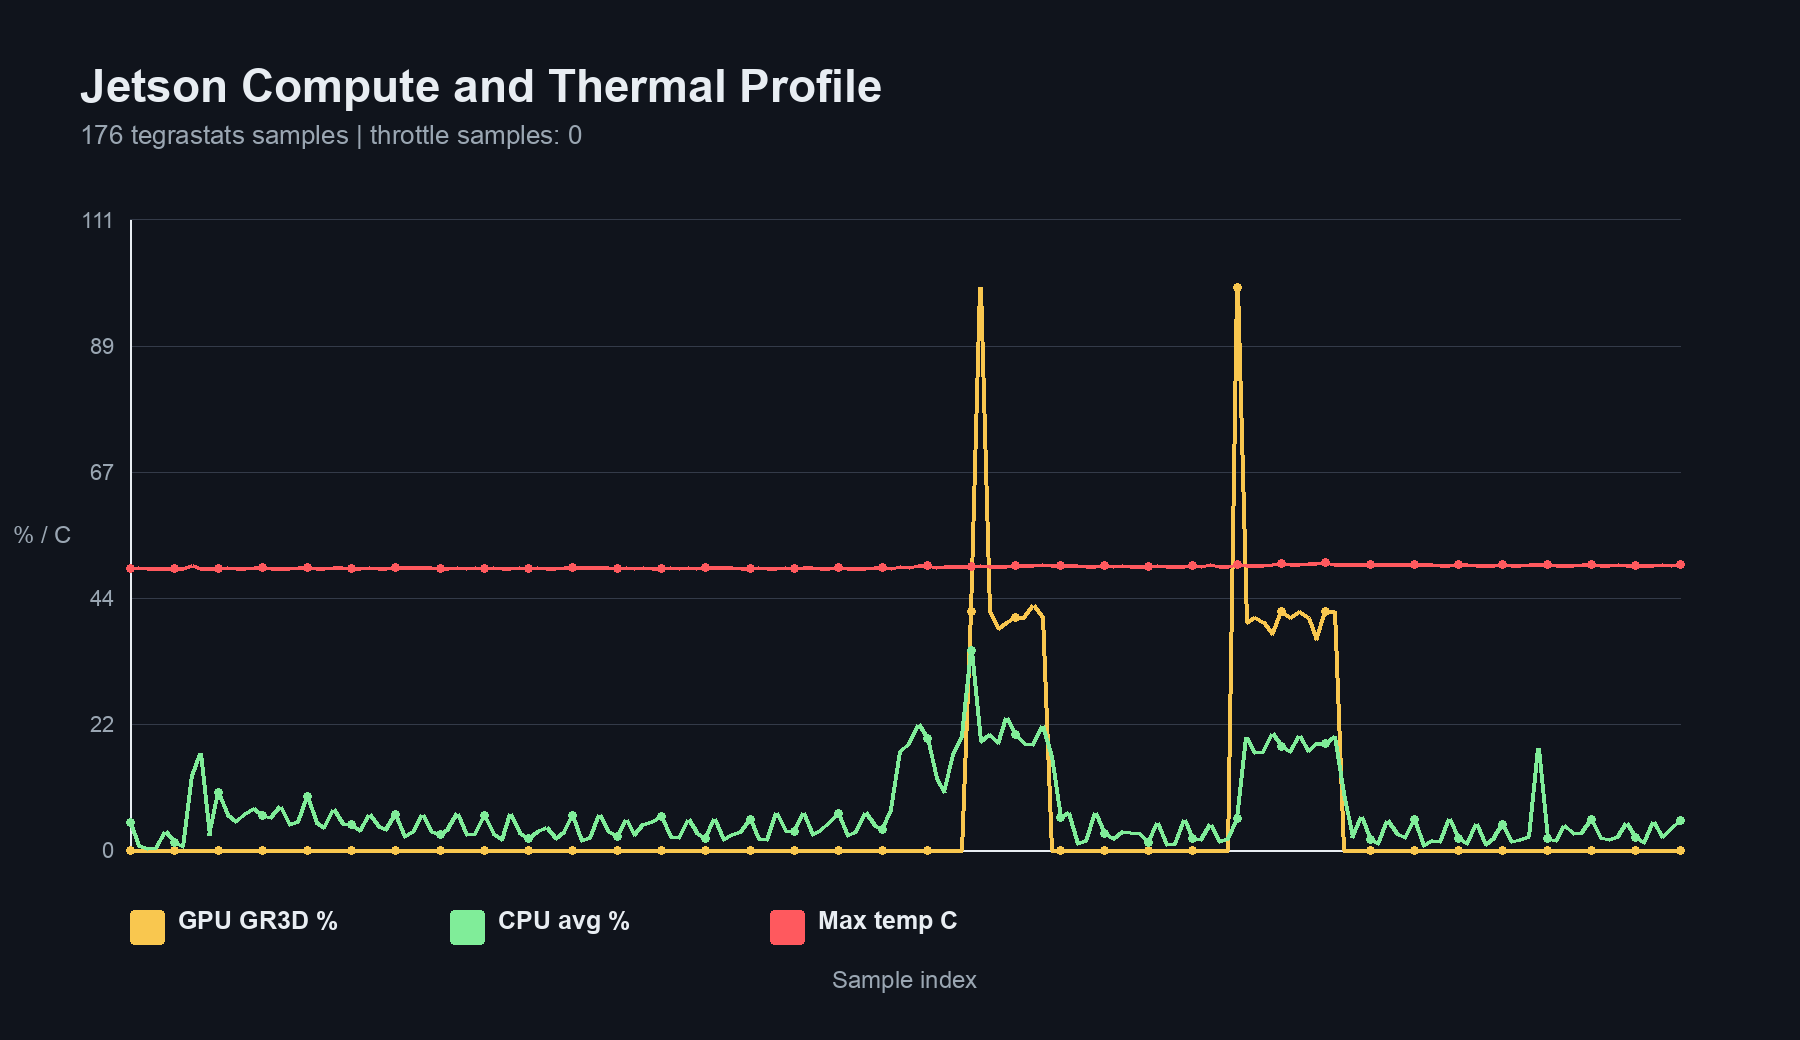
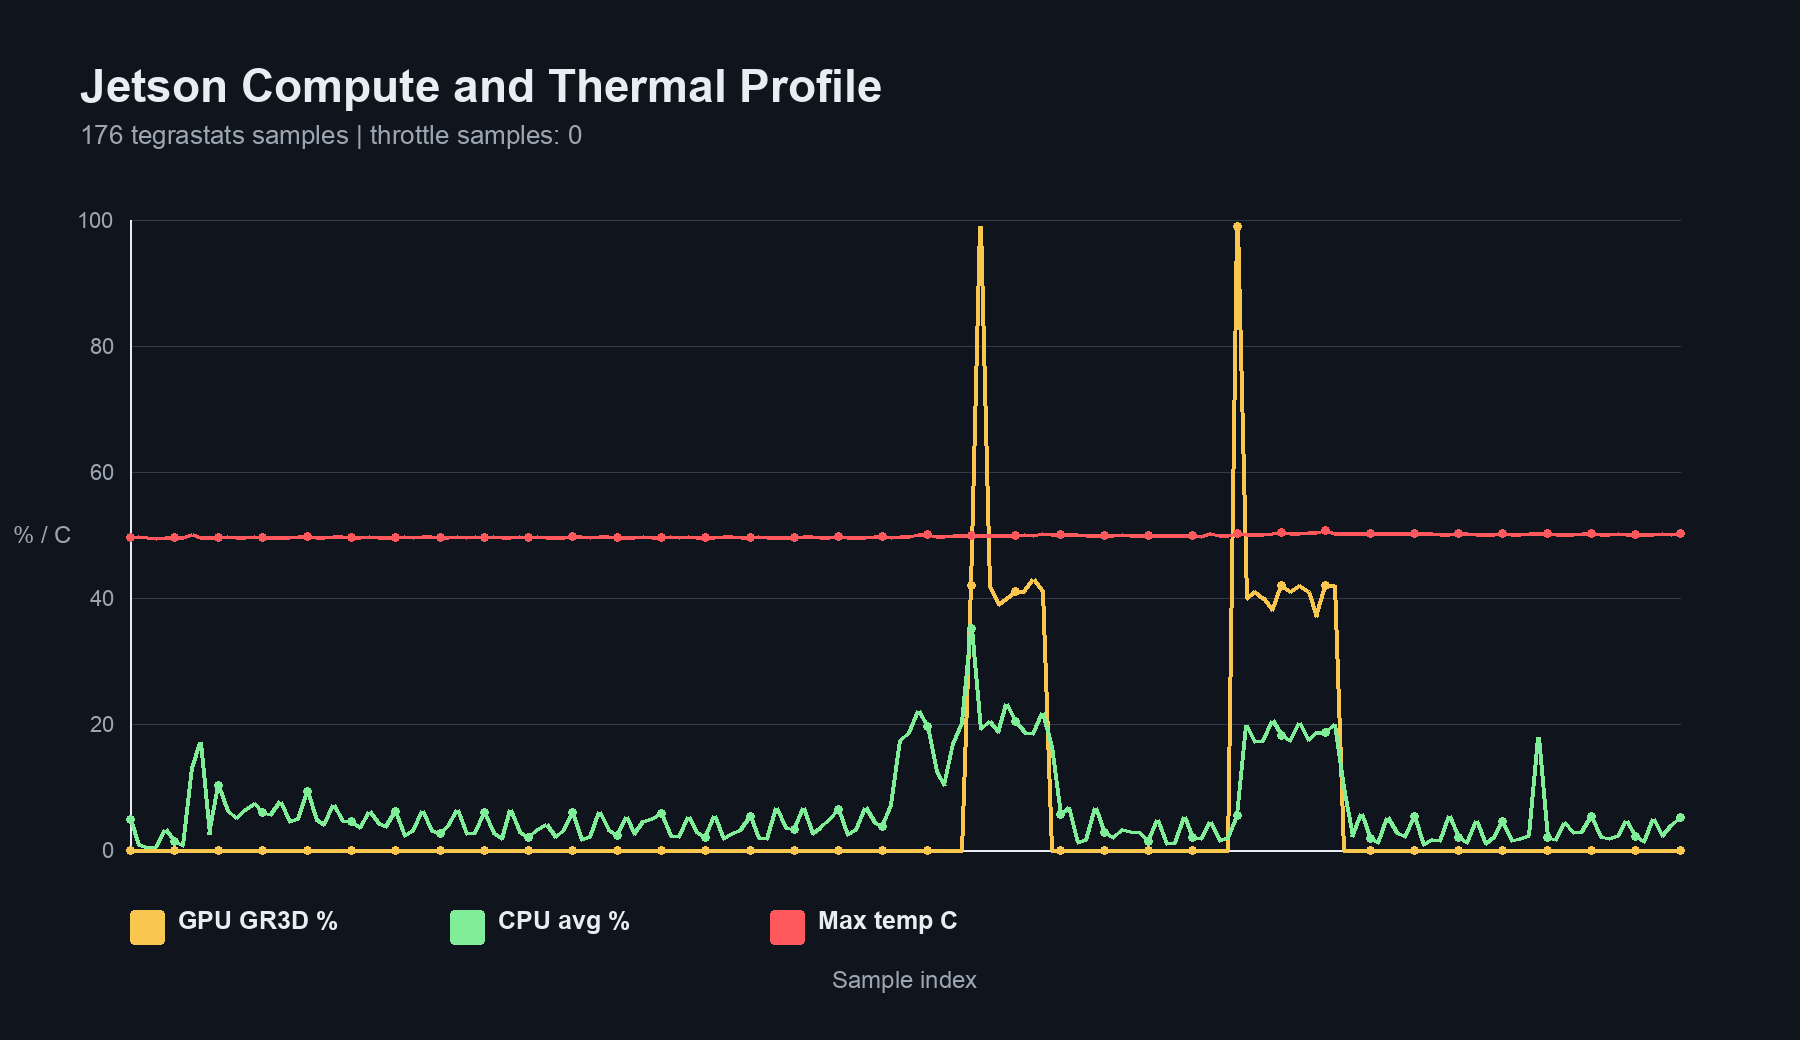
update scripts

diff --git a/scripts/generate_edge_demo_charts.py b/scripts/generate_edge_demo_charts.py
@@ -1,0 +1,241 @@
+from __future__ import annotations
+
+import argparse
+import csv
+import math
+from pathlib import Path
+from statistics import mean
+
+from PIL import Image, ImageDraw, ImageFont
+
+
+BACKGROUND = "#10141c"
+FOREGROUND = "#e8edf2"
+MUTED = "#9aa6b2"
+GRID = "#343b49"
+ACCENT = "#f72585"
+COLORS = ("#4cc9f0", "#80ed99", "#f72585", "#f9c74f", "#adb5bd")
+PIE_LABELS = (
+    "ASR (Mac Whisper)",
+    "Vision Capture",
+    "Jetson SmolVLM Inference",
+    "PX4 / MAVSDK Action",
+    "HTTP + Safety Overhead",
+)
+
+
+def build_parser() -> argparse.ArgumentParser:
+    parser = argparse.ArgumentParser(description="Generate Mac + Jetson distributed demo charts.")
+    parser.add_argument("--input", default="logs/telemetry.csv", help="Input Mac sensor telemetry CSV.")
+    parser.add_argument("--output-dir", default="docs/imgs", help="Directory where chart PNG files are written.")
+    return parser
+
+
+def read_float(row: dict[str, str], column: str) -> float:
+    value = row.get(column, "")
+    if value in ("", None):
+        return 0.0
+    try:
+        return float(value)
+    except ValueError:
+        return 0.0
+
+
+def load_edge_rows(path: Path) -> list[dict[str, str]]:
+    if not path.exists():
+        raise FileNotFoundError(f"Telemetry CSV not found: {path}")
+
+    with path.open(newline="", encoding="utf-8") as handle:
+        reader = csv.DictReader(handle)
+        rows = [
+            row
+            for row in reader
+            if row.get("profile") == "edge_distributed"
+            and row.get("component") == "mac_sensor_client"
+            and row.get("ok") == "1"
+        ]
+
+    if not rows:
+        raise ValueError(f"No accepted edge_distributed mac_sensor_client rows found in {path}")
+    return rows
+
+
+def font(size: int, *, bold: bool = False) -> ImageFont.FreeTypeFont | ImageFont.ImageFont:
+    candidates = (
+        "/System/Library/Fonts/Supplemental/Arial Bold.ttf" if bold else "/System/Library/Fonts/Supplemental/Arial.ttf",
+        "/System/Library/Fonts/Helvetica.ttc",
+        "/usr/share/fonts/truetype/dejavu/DejaVuSans-Bold.ttf" if bold else "/usr/share/fonts/truetype/dejavu/DejaVuSans.ttf",
+    )
+    for candidate in candidates:
+        try:
+            return ImageFont.truetype(candidate, size=size)
+        except OSError:
+            continue
+    return ImageFont.load_default()
+
+
+def draw_text(
+    draw: ImageDraw.ImageDraw,
+    xy: tuple[float, float],
+    value: str,
+    *,
+    size: int,
+    fill: str = FOREGROUND,
+    bold: bool = False,
+    anchor: str | None = None,
+) -> None:
+    draw.text(xy, value, font=font(size, bold=bold), fill=fill, anchor=anchor)
+
+
+def calculate_latency_means(rows: list[dict[str, str]]) -> dict[str, float]:
+    http_overheads = []
+    for row in rows:
+        http_ms = read_float(row, "http_ms")
+        server_total_ms = read_float(row, "total_ms")
+        safety_ms = read_float(row, "safety_ms")
+        http_overheads.append(max(0.0, http_ms - server_total_ms) + safety_ms)
+
+    return {
+        "audio_ms": mean(read_float(row, "audio_ms") for row in rows),
+        "vision_ms": mean(read_float(row, "vision_ms") for row in rows),
+        "vlm_ms": mean(read_float(row, "ttft_ms") for row in rows),
+        "action_ms": mean(read_float(row, "action_ms") for row in rows),
+        "http_safety_ms": mean(http_overheads),
+    }
+
+
+def generate_edge_latency_pie_chart(means: dict[str, float], output_path: Path, runs_analyzed: int) -> None:
+    columns = ("audio_ms", "vision_ms", "vlm_ms", "action_ms", "http_safety_ms")
+    values = [means[column] for column in columns]
+    total_latency = sum(values)
+    if total_latency <= 0.0:
+        raise ValueError("No positive latency values found for edge latency pie chart.")
+
+    bottleneck_pct = (means["audio_ms"] + means["vlm_ms"]) / total_latency * 100.0
+    image = Image.new("RGB", (1800, 1260), BACKGROUND)
+    draw = ImageDraw.Draw(image)
+    draw_text(draw, (90, 70), "Mac + Jetson Control-Loop Latency Breakdown", size=48, bold=True)
+    draw_text(
+        draw,
+        (90, 130),
+        f"{runs_analyzed} accepted commands | ASR + Jetson VLM bottleneck: {bottleneck_pct:.1f}% of profiled latency",
+        size=28,
+        fill="#f9c74f",
+        bold=True,
+    )
+
+    pie_box = (170, 240, 1030, 1100)
+    center = (600, 670)
+    start_angle = -90.0
+    for value, color in zip(values, COLORS):
+        extent = value / total_latency * 360.0
+        end_angle = start_angle + extent
+        draw.pieslice(pie_box, start=start_angle, end=end_angle, fill=color, outline=BACKGROUND, width=3)
+        mid_angle = math.radians(start_angle + extent / 2.0)
+        pct = value / total_latency * 100.0
+        if pct >= 2.0:
+            x = center[0] + math.cos(mid_angle) * 265
+            y = center[1] + math.sin(mid_angle) * 265
+            draw_text(draw, (x, y), f"{pct:.1f}%", size=26, fill=BACKGROUND, bold=True, anchor="mm")
+        start_angle = end_angle
+
+    legend_x = 1110
+    for index, (label, value, color) in enumerate(zip(PIE_LABELS, values, COLORS)):
+        y = 270 + index * 130
+        pct = value / total_latency * 100.0
+        draw.rounded_rectangle((legend_x, y, legend_x + 38, y + 38), radius=5, fill=color)
+        draw_text(draw, (legend_x + 60, y - 2), label, size=30, bold=True)
+        draw_text(draw, (legend_x + 60, y + 42), f"{value:,.0f} ms average | {pct:.1f}%", size=25, fill=MUTED)
+
+    draw_text(draw, (1110, 990), "Interpretation", size=32, bold=True)
+    draw_text(draw, (1110, 1040), "The edge hardware is stable; latency is dominated by", size=24, fill=MUTED)
+    draw_text(draw, (1110, 1075), "Mac ASR plus SmolVLM visual inference on the Jetson.", size=24, fill=MUTED)
+    image.save(output_path, quality=95)
+
+
+def generate_edge_tps_bar_chart(rows: list[dict[str, str]], output_path: Path) -> None:
+    tps = [read_float(row, "tps") for row in rows if read_float(row, "tps") > 0.0]
+    if not tps:
+        raise ValueError("No positive TPS values found for edge TPS chart.")
+
+    avg_tps = sum(tps) / len(tps)
+    image = Image.new("RGB", (1900, 1150), BACKGROUND)
+    draw = ImageDraw.Draw(image)
+    draw_text(draw, (90, 70), "Jetson SmolVLM Throughput per Visual Inference", size=48, bold=True)
+    draw_text(
+        draw,
+        (90, 130),
+        f"Mean decode throughput: {avg_tps:.1f} TPS | SmolVLM-256M CUDA baseline on Orin Nano",
+        size=28,
+        fill="#f9c74f",
+        bold=True,
+    )
+
+    left, top, right, bottom = 130, 230, 1780, 940
+    max_y = max(max(tps) * 1.4, avg_tps * 1.5, 12.0)
+    tick_step = 2 if max_y <= 20 else 10
+    for tick in range(0, int(max_y // tick_step + 2) * tick_step, tick_step):
+        y = bottom - (tick / max_y) * (bottom - top)
+        draw.line((left, y, right, y), fill=GRID, width=1)
+        draw_text(draw, (left - 18, y), str(tick), size=22, fill=MUTED, anchor="rm")
+
+    draw.line((left, top, left, bottom), fill=FOREGROUND, width=2)
+    draw.line((left, bottom, right, bottom), fill=FOREGROUND, width=2)
+    bar_gap = 70
+    bar_width = min(260, max(110, ((right - left) - bar_gap * (len(tps) - 1)) / max(len(tps), 1)))
+    total_width = len(tps) * bar_width + (len(tps) - 1) * bar_gap
+    start_x = left + ((right - left) - total_width) / 2.0
+
+    for index, value in enumerate(tps):
+        x0 = start_x + index * (bar_width + bar_gap)
+        x1 = x0 + bar_width
+        y = bottom - (value / max_y) * (bottom - top)
+        draw.rounded_rectangle((x0, y, x1, bottom), radius=5, fill="#4cc9f0", outline="#dce7ef", width=1)
+        draw_text(draw, ((x0 + x1) / 2.0, y - 14), f"{value:.1f}", size=24, anchor="mb")
+        draw_text(draw, ((x0 + x1) / 2.0, bottom + 34), str(index + 1), size=22, fill=MUTED, anchor="mm")
+
+    avg_y = bottom - (avg_tps / max_y) * (bottom - top)
+    dash_x = left
+    while dash_x < right:
+        draw.line((dash_x, avg_y, min(dash_x + 22, right), avg_y), fill=ACCENT, width=4)
+        dash_x += 44
+    draw_text(draw, (right - 10, avg_y - 18), f"Mean: {avg_tps:.1f} TPS", size=28, fill=ACCENT, bold=True, anchor="rb")
+    draw_text(draw, ((left + right) / 2.0, 1030), "Visual Inference Run ID", size=26, bold=True, anchor="mm")
+    draw_text(draw, (40, (top + bottom) / 2.0), "TPS", size=26, bold=True, anchor="mm")
+    image.save(output_path, quality=95)
+
+
+def print_report(rows: list[dict[str, str]], means: dict[str, float], output_dir: Path) -> None:
+    tps = [read_float(row, "tps") for row in rows if read_float(row, "tps") > 0.0]
+    total = sum(means.values())
+    bottleneck_pct = (means["audio_ms"] + means["vlm_ms"]) / total * 100.0 if total else 0.0
+    print("\n## Mac + Jetson Edge Demo Charts\n")
+    print(f"- Accepted commands analyzed: {len(rows)}")
+    print(f"- Visual VLM runs analyzed: {len(tps)}")
+    print(f"- Mean ASR: {means['audio_ms']:.1f} ms")
+    print(f"- Mean vision capture: {means['vision_ms']:.1f} ms")
+    print(f"- Mean Jetson SmolVLM inference: {means['vlm_ms']:.1f} ms")
+    print(f"- Mean PX4/MAVSDK action: {means['action_ms']:.1f} ms")
+    print(f"- Mean HTTP + safety overhead: {means['http_safety_ms']:.1f} ms")
+    print(f"- ASR + Jetson VLM bottleneck share: {bottleneck_pct:.1f}%")
+    if tps:
+        print(f"- Mean visual inference TPS: {mean(tps):.1f}")
+    print("\nGenerated artifacts:")
+    print(f"- `{output_dir / 'edge_latency_pie_chart.png'}`")
+    print(f"- `{output_dir / 'edge_tps_bar_chart.png'}`")
+
+
+def main() -> int:
+    args = build_parser().parse_args()
+    output_dir = Path(args.output_dir)
+    output_dir.mkdir(parents=True, exist_ok=True)
+    rows = load_edge_rows(Path(args.input))
+    means = calculate_latency_means(rows)
+    generate_edge_latency_pie_chart(means, output_dir / "edge_latency_pie_chart.png", len(rows))
+    generate_edge_tps_bar_chart(rows, output_dir / "edge_tps_bar_chart.png")
+    print_report(rows, means, output_dir)
+    return 0
+
+
+if __name__ == "__main__":
+    raise SystemExit(main())

diff --git a/scripts/generate_jetson_monitor_charts.py b/scripts/generate_jetson_monitor_charts.py
@@ -136,6 +136,8 @@ def draw_line_chart(
     subtitle: str,
     series: list[tuple[str, str, str]],
     y_label: str,
+    y_min_override: float | None = None,
+    y_max_override: float | None = None,
 ) -> None:
     image = Image.new("RGB", (1800, 1040), BACKGROUND)
     draw = ImageDraw.Draw(image)
@@ -149,8 +151,8 @@ def draw_line_chart(
     if not all_values:
         raise ValueError(f"No finite values for chart: {title}")
 
-    y_min = min(0.0, min(all_values))
-    y_max = max(all_values) * 1.12
+    y_min = min(0.0, min(all_values)) if y_min_override is None else y_min_override
+    y_max = max(all_values) * 1.12 if y_max_override is None else y_max_override
     if y_max <= y_min:
         y_max = y_min + 1.0
 
@@ -241,6 +243,8 @@ def main() -> int:
             ("max_temp_c", "Max temp C", TEMP),
         ],
         y_label="% / C",
+        y_min_override=0.0,
+        y_max_override=100.0,
     )
     print_report(summary, output_dir, summary_path)
     return 0
